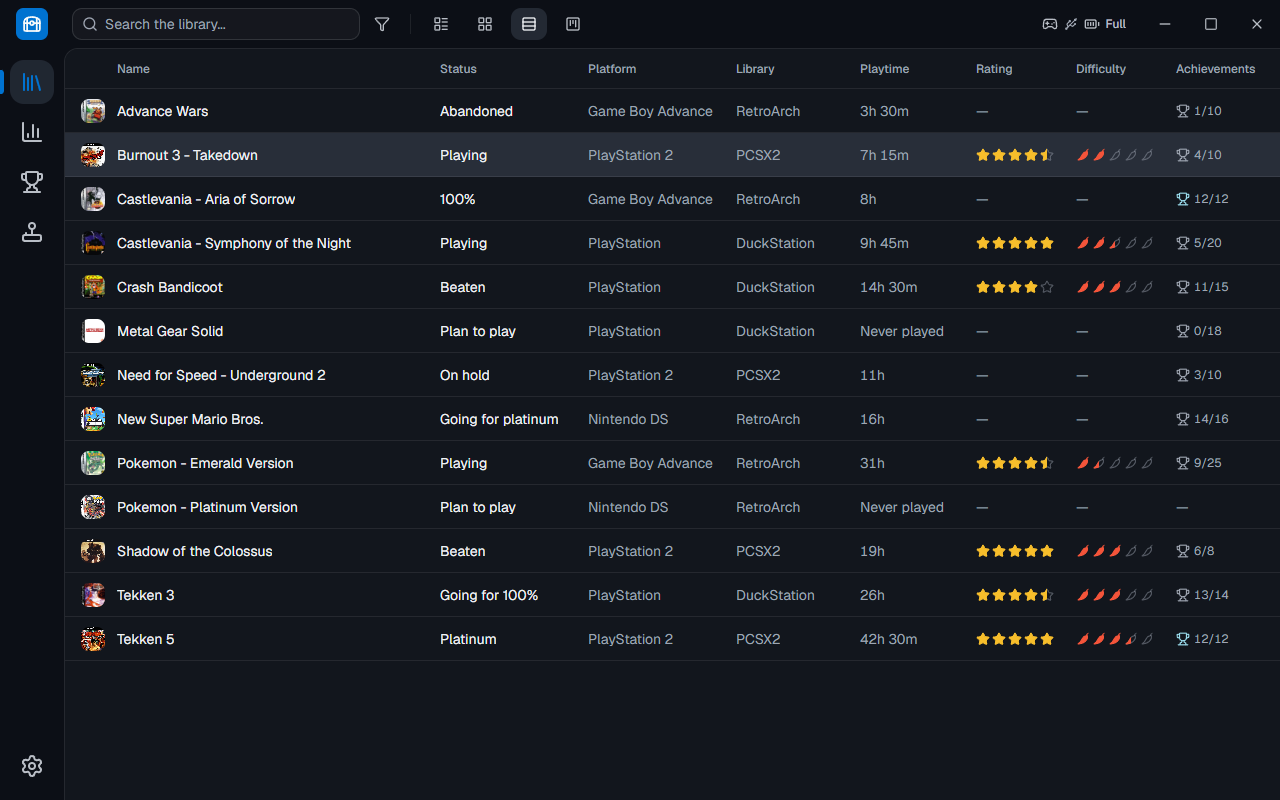
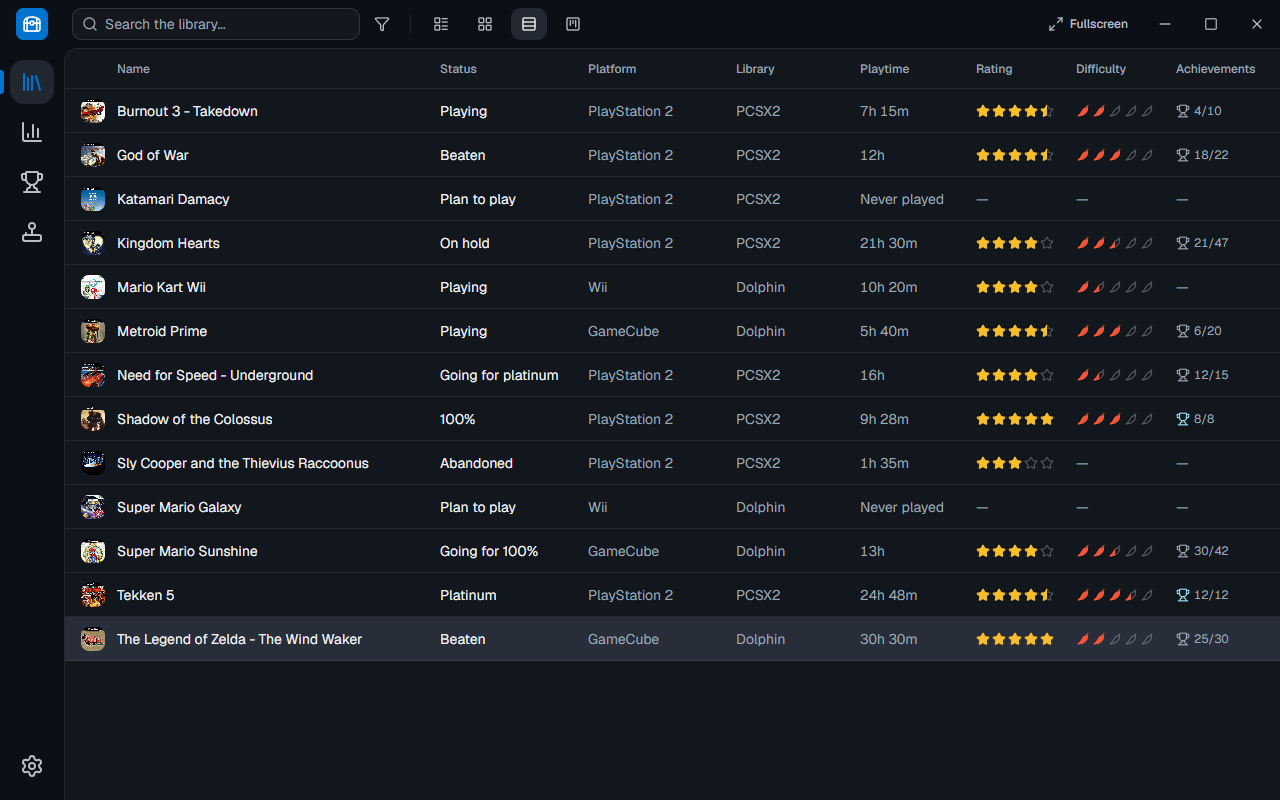
chore: prepara a versão 1.0.0
- Versão 1.0.0 no package.json e nos selos dos READMEs
- Capturas novas nos dois idiomas, com uma biblioteca de demonstração
  de PS2, GameCube e Wii, e as dos temas Horizonte, Mosaico e Painel

diff --git a/README.pt-BR.md b/README.pt-BR.md
@@ -14,7 +14,7 @@
 </p>
 
 <p align="center">
-  <img alt="Versão 0.9.0" src="https://img.shields.io/badge/vers%C3%A3o-0.9.0-0072d0">
+  <img alt="Versão 1.0.0" src="https://img.shields.io/badge/vers%C3%A3o-1.0.0-0072d0">
   <img alt="Em desenvolvimento" src="https://img.shields.io/badge/status-em%20desenvolvimento-orange">
   <img alt="Licença MIT" src="https://img.shields.io/badge/licen%C3%A7a-MIT-green">
   <a href="https://github.com/LamarcKz/Playtrove/actions/workflows/tests.yml"><img alt="Testes" src="https://github.com/LamarcKz/Playtrove/actions/workflows/tests.yml/badge.svg"></a>
@@ -83,69 +83,85 @@ Capturas com uma biblioteca de demonstração.
 <table>
   <tr>
     <td width="50%">
-      <img src="docs/screenshots/pt-BR/fullscreen-library.png" alt="Biblioteca em tela cheia com uma faixa horizontal de capas">
-      <p align="center"><sub>Biblioteca em tela cheia</sub></p>
+      <img src="docs/screenshots/pt-BR/fullscreen-library.png" alt="Biblioteca em tela cheia no tema Playtrove, com uma faixa horizontal de capas">
+      <p align="center"><sub>Biblioteca em tela cheia (tema Playtrove)</sub></p>
     </td>
     <td width="50%">
-      <img src="docs/screenshots/pt-BR/fullscreen-details.png" alt="Detalhes Signature de um jogo em tela cheia">
-      <p align="center"><sub>Detalhes Signature em tela cheia</sub></p>
+      <img src="docs/screenshots/pt-BR/fullscreen-details.png" alt="Detalhes de um jogo em tela cheia, no tema Playtrove">
+      <p align="center"><sub>Detalhes do jogo em tela cheia</sub></p>
     </td>
   </tr>
   <tr>
+    <td width="50%">
+      <img src="docs/screenshots/pt-BR/fullscreen-horizonte.png" alt="Tema de tela cheia Horizonte, com a fileira de jogos no topo, a arte enchendo a tela e cartões de troféus, tempo jogado e nota">
+      <p align="center"><sub>Tema Horizonte</sub></p>
+    </td>
+    <td width="50%">
+      <img src="docs/screenshots/pt-BR/fullscreen-mosaico.png" alt="Tema de tela cheia Mosaico, com capas grandes e atalhos redondos em cinza-escuro e vermelho">
+      <p align="center"><sub>Tema Mosaico</sub></p>
+    </td>
+  </tr>
+  <tr>
+    <td width="50%">
+      <img src="docs/screenshots/pt-BR/fullscreen-painel.png" alt="Tema de tela cheia Painel, com a arte no fundo e blocos de continuar jogando, coleções, conquistas e estatísticas">
+      <p align="center"><sub>Tema Painel</sub></p>
+    </td>
     <td width="50%">
       <img src="docs/screenshots/pt-BR/library-kanban.png" alt="A biblioteca no modo Kanban, com uma coluna para cada status">
       <p align="center"><sub>Modo Kanban</sub></p>
     </td>
+  </tr>
+  <tr>
     <td width="50%">
       <img src="docs/screenshots/pt-BR/library-list.png" alt="A biblioteca no modo Lista, com as colunas Nome, Status, Tempo jogado, Nota, Dificuldade e Conquistas">
       <p align="center"><sub>Modo Lista</sub></p>
     </td>
-  </tr>
-  <tr>
     <td width="50%">
       <img src="docs/screenshots/pt-BR/achievements.png" alt="Aba Conquistas, com o resumo, os gráficos por dia e por mês e os jogos com os troféus de cada tipo">
       <p align="center"><sub>Conquistas e troféus</sub></p>
     </td>
+  </tr>
+  <tr>
     <td width="50%">
       <img src="docs/screenshots/pt-BR/rating.png" alt="Janela de avaliação, com a nota em estrelas e a dificuldade em pimentas">
       <p align="center"><sub>Avaliação do jogo</sub></p>
     </td>
-  </tr>
-  <tr>
     <td width="50%">
       <img src="docs/screenshots/pt-BR/library-grid.png" alt="A biblioteca no modo Grade">
       <p align="center"><sub>Modo Grade</sub></p>
     </td>
+  </tr>
+  <tr>
     <td width="50%">
       <img src="docs/screenshots/pt-BR/filters.png" alt="Painel de filtros com o seletor de Status aberto">
       <p align="center"><sub>Painel de filtros</sub></p>
     </td>
-  </tr>
-  <tr>
     <td width="50%">
       <img src="docs/screenshots/pt-BR/library-grid-panel.png" alt="Modo Grade com o painel de detalhes de um jogo aberto">
       <p align="center"><sub>Painel de detalhes no modo Grade</sub></p>
     </td>
+  </tr>
+  <tr>
     <td width="50%">
       <img src="docs/screenshots/pt-BR/statistics.png" alt="Aba Estatísticas, com o resumo, os mais jogados e a atividade por dia">
       <p align="center"><sub>Estatísticas</sub></p>
     </td>
-  </tr>
-  <tr>
     <td width="50%">
       <img src="docs/screenshots/pt-BR/metadata.png" alt="Configurações de metadados, com o passo a passo para criar as chaves">
       <p align="center"><sub>Metadados e imagens</sub></p>
     </td>
+  </tr>
+  <tr>
     <td width="50%">
       <img src="docs/screenshots/pt-BR/settings-statuses.png" alt="Configurações: a lista de status, com a ordem, os jogos de cada um e as regras automáticas">
       <p align="center"><sub>Configurações → Status</sub></p>
     </td>
-  </tr>
-  <tr>
     <td width="50%">
       <img src="docs/screenshots/pt-BR/music.png" alt="Configurações da música tema: reprodução e volume">
       <p align="center"><sub>Configurações da música tema</sub></p>
     </td>
+  </tr>
+  <tr>
     <td width="50%">
       <img src="docs/screenshots/pt-BR/music-review.png" alt="Opções da soundtrack com controles para ouvir, escolher e pesquisar">
       <p align="center"><sub>Ouvir e escolher a soundtrack</sub></p>

diff --git a/README.md b/README.md
@@ -14,7 +14,7 @@
 </p>
 
 <p align="center">
-  <img alt="Version 0.9.0" src="https://img.shields.io/badge/version-0.9.0-0072d0">
+  <img alt="Version 1.0.0" src="https://img.shields.io/badge/version-1.0.0-0072d0">
   <img alt="In development" src="https://img.shields.io/badge/status-in%20development-orange">
   <img alt="MIT license" src="https://img.shields.io/badge/license-MIT-green">
   <a href="https://github.com/LamarcKz/Playtrove/actions/workflows/tests.yml"><img alt="Tests" src="https://github.com/LamarcKz/Playtrove/actions/workflows/tests.yml/badge.svg"></a>
@@ -83,69 +83,85 @@ Screenshots use a demonstration library.
 <table>
   <tr>
     <td width="50%">
-      <img src="docs/screenshots/en/fullscreen-library.png" alt="Fullscreen library with a horizontal cover rail">
-      <p align="center"><sub>Fullscreen library</sub></p>
+      <img src="docs/screenshots/en/fullscreen-library.png" alt="Fullscreen library in the Playtrove theme, with a horizontal cover rail">
+      <p align="center"><sub>Fullscreen library (Playtrove theme)</sub></p>
     </td>
     <td width="50%">
-      <img src="docs/screenshots/en/fullscreen-details.png" alt="Fullscreen Signature game details">
-      <p align="center"><sub>Fullscreen Signature details</sub></p>
+      <img src="docs/screenshots/en/fullscreen-details.png" alt="Fullscreen game details in the Playtrove theme">
+      <p align="center"><sub>Fullscreen game details</sub></p>
     </td>
   </tr>
   <tr>
+    <td width="50%">
+      <img src="docs/screenshots/en/fullscreen-horizonte.png" alt="Horizon fullscreen theme, with a row of games on top, the art filling the screen and cards for trophies, playtime and rating">
+      <p align="center"><sub>Horizon theme</sub></p>
+    </td>
+    <td width="50%">
+      <img src="docs/screenshots/en/fullscreen-mosaico.png" alt="Mosaic fullscreen theme, with big covers and round shortcuts in dark gray and red">
+      <p align="center"><sub>Mosaic theme</sub></p>
+    </td>
+  </tr>
+  <tr>
+    <td width="50%">
+      <img src="docs/screenshots/en/fullscreen-painel.png" alt="Panel fullscreen theme, with the art in the background and tiles for continue playing, collections, achievements and statistics">
+      <p align="center"><sub>Panel theme</sub></p>
+    </td>
     <td width="50%">
       <img src="docs/screenshots/en/library-kanban.png" alt="The library in Kanban view, with one column per status">
       <p align="center"><sub>Kanban view</sub></p>
     </td>
+  </tr>
+  <tr>
     <td width="50%">
       <img src="docs/screenshots/en/library-list.png" alt="The library in List view, with the Name, Status, Playtime, Rating, Difficulty and Achievements columns">
       <p align="center"><sub>List view</sub></p>
     </td>
-  </tr>
-  <tr>
     <td width="50%">
       <img src="docs/screenshots/en/achievements.png" alt="The Achievements tab, with the summary, charts by day and by month, and each game's trophies by type">
       <p align="center"><sub>Achievements and trophies</sub></p>
     </td>
+  </tr>
+  <tr>
     <td width="50%">
       <img src="docs/screenshots/en/rating.png" alt="The rating window, with the rating in stars and the difficulty in peppers">
       <p align="center"><sub>Rating a game</sub></p>
     </td>
-  </tr>
-  <tr>
     <td width="50%">
       <img src="docs/screenshots/en/library-grid.png" alt="The library in Grid view">
       <p align="center"><sub>Grid view</sub></p>
     </td>
+  </tr>
+  <tr>
     <td width="50%">
       <img src="docs/screenshots/en/filters.png" alt="The filter panel with the Status dropdown open">
       <p align="center"><sub>Filter panel</sub></p>
     </td>
-  </tr>
-  <tr>
     <td width="50%">
       <img src="docs/screenshots/en/library-grid-panel.png" alt="Grid view with a game's details panel open">
       <p align="center"><sub>Details panel in Grid view</sub></p>
     </td>
+  </tr>
+  <tr>
     <td width="50%">
       <img src="docs/screenshots/en/statistics.png" alt="The Statistics tab, with the summary, the most played games and the activity by day">
       <p align="center"><sub>Statistics</sub></p>
     </td>
-  </tr>
-  <tr>
     <td width="50%">
       <img src="docs/screenshots/en/metadata.png" alt="Metadata settings, with the steps to get the keys">
       <p align="center"><sub>Metadata and images</sub></p>
     </td>
+  </tr>
+  <tr>
     <td width="50%">
       <img src="docs/screenshots/en/settings-statuses.png" alt="Settings: the list of statuses, with their order, the games in each one and the automatic rules">
       <p align="center"><sub>Settings → Statuses</sub></p>
     </td>
-  </tr>
-  <tr>
     <td width="50%">
       <img src="docs/screenshots/en/music.png" alt="Theme music settings: playback and volume">
       <p align="center"><sub>Theme music settings</sub></p>
     </td>
+  </tr>
+  <tr>
     <td width="50%">
       <img src="docs/screenshots/en/music-review.png" alt="Soundtrack candidates with listening, selection and search controls">
       <p align="center"><sub>Listen and choose a soundtrack</sub></p>

diff --git a/CLAUDE.md b/CLAUDE.md
@@ -240,7 +240,7 @@ Nunca em arquivo versionado (nem em mensagem de commit, Pull Request ou release)
 
 Como fazer, então:
 
-- **Capturas do README:** montar uma **biblioteca de demonstração** num banco temporário — jogos conhecidos (Tekken 5, Crash Bandicoot, Pokemon Emerald...), com capa de verdade do libretro-thumbnails e tempo jogado inventado — e tirar as capturas dela nos dois idiomas (`PLAYTROVE_SYSTEM_LANGUAGE` em `pt-BR` e `en`), com `PLAYTROVE_DATA_DIR`, `PLAYTROVE_SKIP_EMULATOR_DETECTION=1` e `PLAYTROVE_HIDE_DEV_MARK=1` (sem ele, a marca DEV aparece no logo). Nunca usar pastas de ROMs de verdade.
+- **Capturas do README:** montar uma **biblioteca de demonstração** num banco temporário — jogos conhecidos de consoles com caixa em pé, que encaixam no quadro 3:4 das capas (PS2, GameCube e Wii: Tekken 5, Metroid Prime, Super Mario Galaxy...), com a capa e a captura de tela de verdade do libretro-thumbnails (`Named_Boxarts` e `Named_Snaps`) e tempo jogado inventado — e tirar as capturas dela nos dois idiomas (`PLAYTROVE_SYSTEM_LANGUAGE` em `pt-BR` e `en`), com `PLAYTROVE_DATA_DIR`, `PLAYTROVE_SKIP_EMULATOR_DETECTION=1` e `PLAYTROVE_HIDE_DEV_MARK=1` (sem ele, a marca DEV aparece no logo). Nunca usar pastas de ROMs de verdade.
 - **Testes:** nomes de jogos fictícios ou genéricos, como os 12 jogos de exemplo do app.
 - **O contexto do ambiente do mantenedor** (caminhos dos emuladores e das ROMs, jeito de conferir na tela) fica fora do repositório, nas notas dele e na memória de cada agente; o Codex não herda a memória do Claude. Pedir esse contexto apenas quando uma tarefa concreta precisar dele, sem importar credenciais, caminhos pessoais ou a biblioteca para arquivos versionados.
 - **Antes de cada commit:** conferir o que vai entrar (`git diff --cached`) procurando esses dados; nos commits que mexem em documentação ou capturas, olhar também as imagens.
